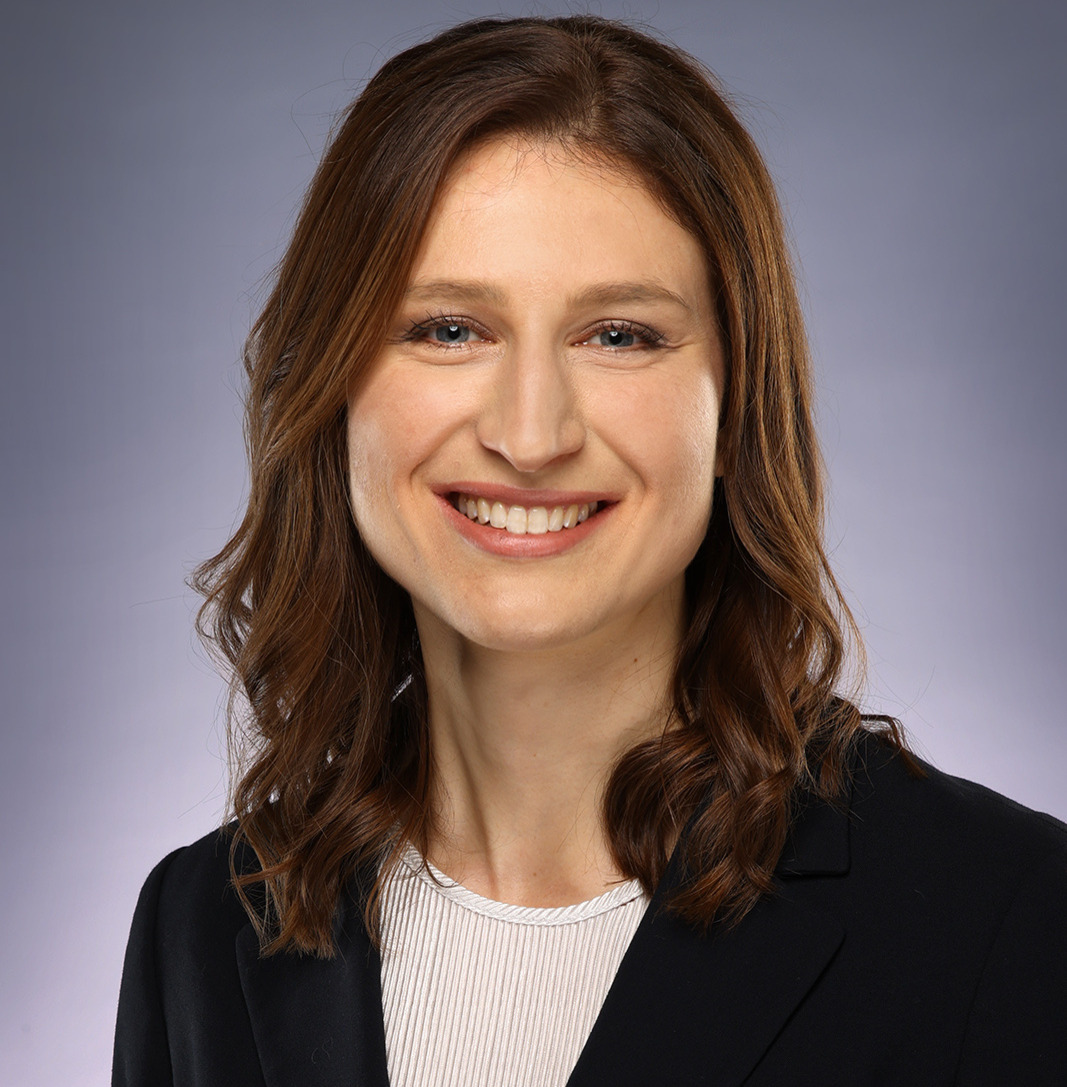
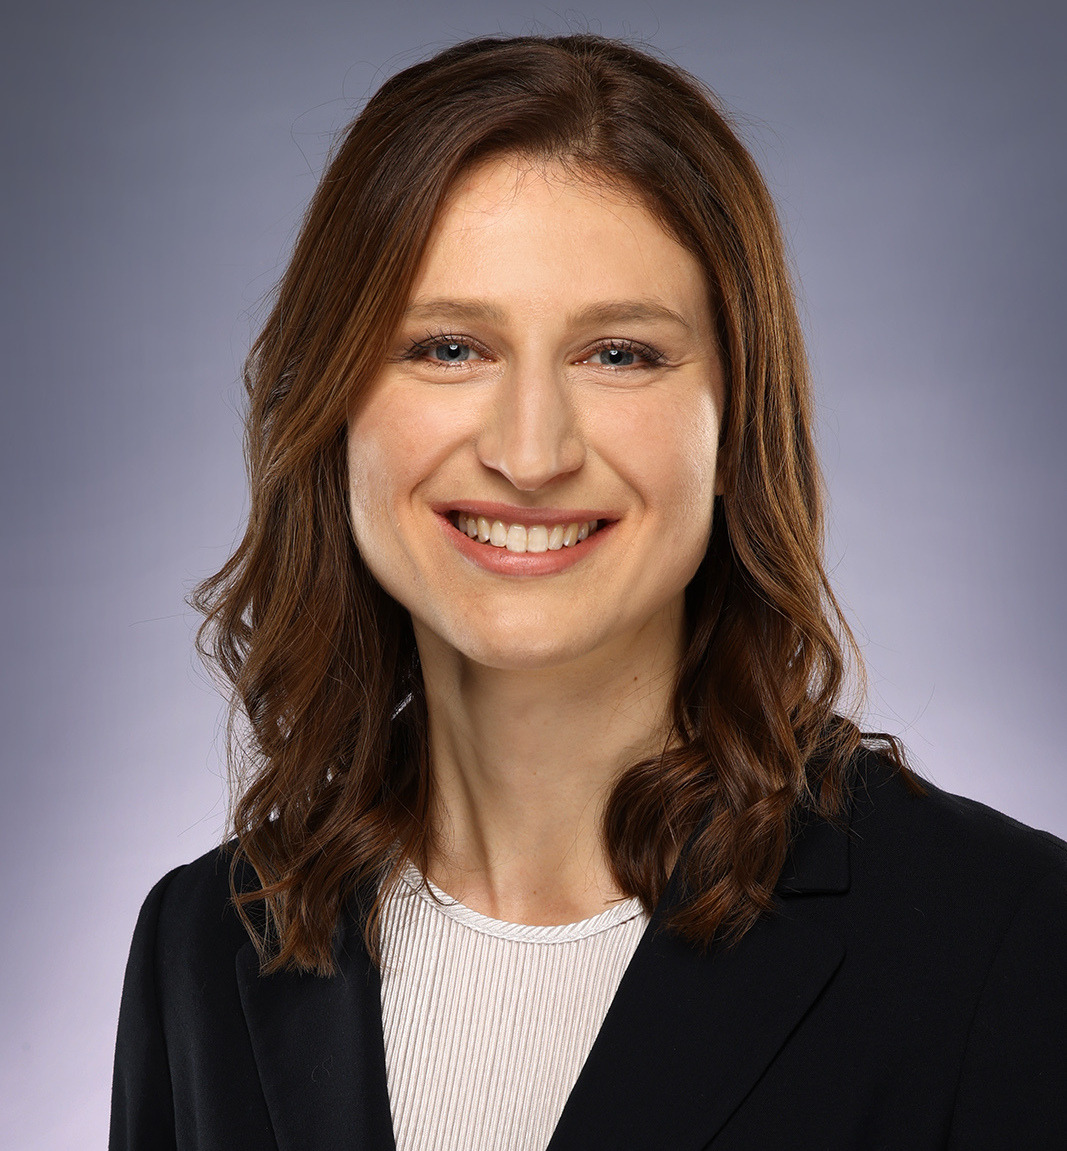
deploy: d9b432d08160f4630b808f24458c6c273cfc3876

diff --git a/team/index.html b/team/index.html
@@ -1,2 +1,2 @@
 <!doctype html><html lang=en><head><meta charset=utf-8><meta charset=utf-8><meta name=viewport content="width=device-width,initial-scale=1,maximum-scale=1,user-scalable=no"><title>Team | Chair of Systems Design</title><link href=https://www.sg.ethz.ch/sass/eth.min.4673ea727950679365cdeb8e558e9b7a8067b97ad6ce7c9ac8ec8fea1f1a139c.css rel=stylesheet type=text/css><link href=https://www.sg.ethz.ch/sass/hamburgers.min.min.cabf4f2db782cf15be3c521a00e22edd7c2a1246c20739da65a5ec0967ff9f58.css rel=stylesheet type=text/css><link href=https://www.sg.ethz.ch/sass/main.min.06277f5dc4591fb276e5d60b111075a34b58c31813e77a69af1830bdf6a24651.css rel=stylesheet type=text/css><link href=https://www.sg.ethz.ch/sass/github-markdown.min.3021e903d07104fe7f787caeceeaf11e99e31b0d4e6a529a45da6e855de42dd1.css rel=stylesheet type=text/css><link rel=apple-touch-icon sizes=180x180 href=https://www.sg.ethz.ch/fav/apple-touch-icon.png><link rel=icon type=image/png sizes=32x32 href=https://www.sg.ethz.ch/fav/favicon-32x32.png><link rel=icon type=image/png sizes=16x16 href=https://www.sg.ethz.ch/fav/favicon-16x16.png><link rel=manifest href=https://www.sg.ethz.ch/fav/site.webmanifest><link rel=mask-icon href=https://www.sg.ethz.ch/fav/safari-pinned-tab.svg color=#a8322c><meta name=msapplication-TileColor content="#da532c"><meta name=theme-color content="#ffffff"><meta property="og:title" content="Team"><meta property="og:description" content><meta property="og:type" content="website"><meta property="og:url" content="https://www.sg.ethz.ch/team/"><meta name=twitter:card content="summary"><meta name=twitter:title content="Team"><meta name=twitter:description content></head><body><div class=site-wrapper><header class="site-header header--with-department-breadcrumb"><div class="header__nav-meta header__desktop-only"><div class=header__container><nav class=header__departments><h2 class=hidden>Departments</h2><ul><li class=item--organization><a href=https://ethz.ch/en.html>ETH Zurich</a></li><li class=item--organization><a href=https://mtec.ethz.ch/>D-MTEC</a></li><li class=item--organization><a href=https://www.sg.ethz.ch/>SG</a></li></ul></nav></div></div><div class="header__logos header__container"><a href=https://ethz.ch/en.html><img src=https://www.sg.ethz.ch/img/ethz_logo_black.svg alt="Logo of ETH Zurich, to homepage"></a><div class=header__headlines><h2 class=header__headline--big><a href=https://www.sg.ethz.ch/>Chair of Systems Design</a></h2></div></div><div class=header__nav-primary><div class="header__navbar header__container"><button class="hamburger hamburger--collapse" type=button>
-<span class=hamburger-box><span class=hamburger-inner></span></span></button><nav class="nav-primary js-nav-primary"><div class="header__nav-level header__nav-level--root js-header__nav-level--root" role=navigation><h1 class=screenreader>Navigation Area</h1><ul id=navList><li><a class=nav-link href=https://www.sg.ethz.ch/>Home</a></li><li><a class=nav-link href=https://www.sg.ethz.ch/publications/>Publications</a></li><li><a class=nav-link href=https://www.sg.ethz.ch/team/>Team</a></li><li><a class=nav-link href=https://www.sg.ethz.ch/projects/>Projects</a></li><li><a class=nav-link href=https://www.sg.ethz.ch/teaching/>Teaching</a></li><li><a class=nav-link href=https://www.sg.ethz.ch/news/>News</a></li><li><a class=nav-link href=https://www.sg.ethz.ch/about/>About Us</a></li></ul></div></nav></div></div></header><section id=content class=site-content><div><main id=main><section class="section section__top section__bg section__bgprimary"><div class=section__bgprimary__image></div><div class=section__inner><div class=section__top__text><nav class=breadcrumb role=navigation aria-label=Breadcrumb><h3 id=breadcrumb-heading class=visually-hidden>You are here</h3><ul><li><a href=https://www.sg.ethz.ch/>Chair of Systems Design</a></li><li><a href=https://www.sg.ethz.ch/team/>Team</a></li></ul></nav><h1>Team</h1></div></div></section><section class="section section__bg section__bgsecondary isteam wave-deactivate"><div class="section__inner cardwrapper cardwrapper__columnTeam team"><figure class=card><a href=https://www.sg.ethz.ch/team/frank_schweitzer/><img src=https://www.sg.ethz.ch/team/frank_schweitzer/profile_pic_hu4ed99a8f4e09978063a7e0750de8e4b2_190425_270x270_fill_q75_box_center.jpg width=270 height=270><h3>Frank<br>Schweitzer</h3><p>Professor</p></a></figure><figure class=card><a href=https://www.sg.ethz.ch/team/nadja_taras/><img src=https://www.sg.ethz.ch/team/nadja_taras/profile_pic_hu6005eae5ae21f565fec1551d3b2cb835_583697_270x270_fill_box_center_2.png width=270 height=270><h3>Nadja<br>Taras</h3><p>Administrative Assistant</p></a></figure><figure class=card><a href=https://www.sg.ethz.ch/team/laurence_brandenberger/><img src=https://www.sg.ethz.ch/team/laurence_brandenberger/profile_pic_hu9d56c632b72609e7dc375e1c7d19f791_2053673_270x270_fill_q75_box_center.jpg width=270 height=270><h3>Laurence<br>Brandenberger</h3><p>Senior Researcher</p></a></figure><figure class=card><a href=https://www.sg.ethz.ch/team/giona_casiraghi/><img src=https://www.sg.ethz.ch/team/giona_casiraghi/profile_pic_hua4f188031f437e141294b8ed632a6775_198810_270x270_fill_q75_box_center.jpg width=270 height=270><h3>Giona<br>Casiraghi</h3><p>Senior Researcher</p></a></figure><figure class=card><a href=https://www.sg.ethz.ch/team/giacomo_vaccario/><img src=https://www.sg.ethz.ch/team/giacomo_vaccario/profile_pic_hu864bf9da20bd7d47f0057a5eb25e3747_135265_270x270_fill_q75_box_center.jpg width=270 height=270><h3>Giacomo<br>Vaccario</h3><p>Senior Researcher</p></a></figure><figure class=card><a href=https://www.sg.ethz.ch/team/ramona_roller/><img src=https://www.sg.ethz.ch/team/ramona_roller/profile_pic_hu8d81d6196a5ade69f0fb36b7c0bbc631_295008_270x270_fill_q75_box_center.jpg width=270 height=270><h3>Ramona<br>Roller</h3><p>Postdoc</p></a></figure><figure class=card><a href=https://www.sg.ethz.ch/team/luca_verginer/><img src=https://www.sg.ethz.ch/team/luca_verginer/profile_pic_hu5c1c18a1da7687374ca456a8ea8d59e9_42973_270x270_fill_q75_box_center.jpg width=270 height=270><h3>Luca<br>Verginer</h3><p>Postdoc</p></a></figure><figure class=card><a href=https://www.sg.ethz.ch/team/christoph_gote/><img src=https://www.sg.ethz.ch/team/christoph_gote/profile_pic_hud797b16b21df76f967ca44c8a24bc0d9_1798907_270x270_fill_q75_box_center.JPG width=270 height=270><h3>Christoph<br>Gote</h3><p>Postdoc</p></a></figure><figure class=card><a href=https://www.sg.ethz.ch/team/christian_zingg/><img src=https://www.sg.ethz.ch/team/christian_zingg/profile_pic_hud52d6b7071b8ed71493b1a29acc0493d_20518_270x270_fill_q75_box_center.jpg width=270 height=270><h3>Christian<br>Zingg</h3><p>Postdoc</p></a></figure><figure class=card><a href=https://www.sg.ethz.ch/team/ambra_amico/><img src=https://www.sg.ethz.ch/team/ambra_amico/profile_pic_hu5202cf31f78498c772f420909364207e_2374968_270x270_fill_q75_box_center.jpg width=270 height=270><h3>Ambra<br>Amico</h3><p>PhD Student</p></a></figure><figure class=card><a href=https://www.sg.ethz.ch/team/sophia-schlosser/><img src=https://www.sg.ethz.ch/team/sophia-schlosser/profile_pic_hue88fdd4a9c5f25795e3fb91869f81059_152040_270x270_fill_q75_box_center.jpg width=270 height=270><h3>Sophia Johanna<br>Schlosser</h3><p>PhD Student</p></a></figure><figure class=card><a href=https://www.sg.ethz.ch/team/giuseppe_russo/><img src=https://www.sg.ethz.ch/team/giuseppe_russo/profile_pic_hub1d02aeb85c2cb9771aa16dd32e5676d_86219_270x270_fill_q75_box_center.jpg width=270 height=270><h3>Giuseppe<br>Russo</h3><p>PhD Student</p></a></figure><figure class=card><a href=https://www.sg.ethz.ch/team/georges_andres/><img src=https://www.sg.ethz.ch/team/georges_andres/profile_pic_huafe2ce1aa26ecc3d9daff9b3fc91a61d_422124_270x270_fill_q75_box_center.jpg width=270 height=270><h3>Georges<br>Andres</h3><p>PhD Student</p></a></figure></div></section></main></div></section><footer id=footer class="site-footer section__bg section__bgdark wave-deactivate"><div class=footer__container><nav aria-labelledby=footer-resources-heading class="footer__row footer__resources"><h3 id=footer-resources-heading class=visually-hidden>Resources</h3><ul><li><a href=https://www.sg.ethz.ch/admin/disclaimer/>Disclaimer</a></li><li><a href=https://www.sg.ethz.ch/admin/imprint/>Imprint</a></li><li><a href=https://www.sg.ethz.ch/admin/contactus/>Contact Us</a></li></ul></nav><div class=footer__copyright>© 2023 Chair of Systems Design | ETH Zürich</a></div></div></footer><script src=https://www.sg.ethz.ch/js/timeago.min.js></script><script src=https://www.sg.ethz.ch/js/jquery-3.5.1.min.js></script><script src=https://www.sg.ethz.ch/js/executes.js></script></div></body></html>
+<span class=hamburger-box><span class=hamburger-inner></span></span></button><nav class="nav-primary js-nav-primary"><div class="header__nav-level header__nav-level--root js-header__nav-level--root" role=navigation><h1 class=screenreader>Navigation Area</h1><ul id=navList><li><a class=nav-link href=https://www.sg.ethz.ch/>Home</a></li><li><a class=nav-link href=https://www.sg.ethz.ch/publications/>Publications</a></li><li><a class=nav-link href=https://www.sg.ethz.ch/team/>Team</a></li><li><a class=nav-link href=https://www.sg.ethz.ch/projects/>Projects</a></li><li><a class=nav-link href=https://www.sg.ethz.ch/teaching/>Teaching</a></li><li><a class=nav-link href=https://www.sg.ethz.ch/news/>News</a></li><li><a class=nav-link href=https://www.sg.ethz.ch/about/>About Us</a></li></ul></div></nav></div></div></header><section id=content class=site-content><div><main id=main><section class="section section__top section__bg section__bgprimary"><div class=section__bgprimary__image></div><div class=section__inner><div class=section__top__text><nav class=breadcrumb role=navigation aria-label=Breadcrumb><h3 id=breadcrumb-heading class=visually-hidden>You are here</h3><ul><li><a href=https://www.sg.ethz.ch/>Chair of Systems Design</a></li><li><a href=https://www.sg.ethz.ch/team/>Team</a></li></ul></nav><h1>Team</h1></div></div></section><section class="section section__bg section__bgsecondary isteam wave-deactivate"><div class="section__inner cardwrapper cardwrapper__columnTeam team"><figure class=card><a href=https://www.sg.ethz.ch/team/frank_schweitzer/><img src=https://www.sg.ethz.ch/team/frank_schweitzer/profile_pic_hu4ed99a8f4e09978063a7e0750de8e4b2_190425_270x270_fill_q75_box_center.jpg width=270 height=270><h3>Frank<br>Schweitzer</h3><p>Professor</p></a></figure><figure class=card><a href=https://www.sg.ethz.ch/team/nadja_taras/><img src=https://www.sg.ethz.ch/team/nadja_taras/profile_pic_hu6005eae5ae21f565fec1551d3b2cb835_583697_270x270_fill_box_center_2.png width=270 height=270><h3>Nadja<br>Taras</h3><p>Administrative Assistant</p></a></figure><figure class=card><a href=https://www.sg.ethz.ch/team/laurence_brandenberger/><img src=https://www.sg.ethz.ch/team/laurence_brandenberger/profile_pic_hu9d56c632b72609e7dc375e1c7d19f791_2053673_270x270_fill_q75_box_center.jpg width=270 height=270><h3>Laurence<br>Brandenberger</h3><p>Senior Researcher</p></a></figure><figure class=card><a href=https://www.sg.ethz.ch/team/giona_casiraghi/><img src=https://www.sg.ethz.ch/team/giona_casiraghi/profile_pic_hua4f188031f437e141294b8ed632a6775_198810_270x270_fill_q75_box_center.jpg width=270 height=270><h3>Giona<br>Casiraghi</h3><p>Senior Researcher</p></a></figure><figure class=card><a href=https://www.sg.ethz.ch/team/giacomo_vaccario/><img src=https://www.sg.ethz.ch/team/giacomo_vaccario/profile_pic_hu864bf9da20bd7d47f0057a5eb25e3747_135265_270x270_fill_q75_box_center.jpg width=270 height=270><h3>Giacomo<br>Vaccario</h3><p>Senior Researcher</p></a></figure><figure class=card><a href=https://www.sg.ethz.ch/team/ramona_roller/><img src=https://www.sg.ethz.ch/team/ramona_roller/profile_pic_hu8d81d6196a5ade69f0fb36b7c0bbc631_358058_270x270_fill_q75_box_center.jpg width=270 height=270><h3>Ramona<br>Roller</h3><p>Postdoc</p></a></figure><figure class=card><a href=https://www.sg.ethz.ch/team/luca_verginer/><img src=https://www.sg.ethz.ch/team/luca_verginer/profile_pic_hu5c1c18a1da7687374ca456a8ea8d59e9_42973_270x270_fill_q75_box_center.jpg width=270 height=270><h3>Luca<br>Verginer</h3><p>Postdoc</p></a></figure><figure class=card><a href=https://www.sg.ethz.ch/team/christoph_gote/><img src=https://www.sg.ethz.ch/team/christoph_gote/profile_pic_hud797b16b21df76f967ca44c8a24bc0d9_1798907_270x270_fill_q75_box_center.JPG width=270 height=270><h3>Christoph<br>Gote</h3><p>Postdoc</p></a></figure><figure class=card><a href=https://www.sg.ethz.ch/team/christian_zingg/><img src=https://www.sg.ethz.ch/team/christian_zingg/profile_pic_hud52d6b7071b8ed71493b1a29acc0493d_20518_270x270_fill_q75_box_center.jpg width=270 height=270><h3>Christian<br>Zingg</h3><p>Postdoc</p></a></figure><figure class=card><a href=https://www.sg.ethz.ch/team/ambra_amico/><img src=https://www.sg.ethz.ch/team/ambra_amico/profile_pic_hu5202cf31f78498c772f420909364207e_2374968_270x270_fill_q75_box_center.jpg width=270 height=270><h3>Ambra<br>Amico</h3><p>PhD Student</p></a></figure><figure class=card><a href=https://www.sg.ethz.ch/team/sophia-schlosser/><img src=https://www.sg.ethz.ch/team/sophia-schlosser/profile_pic_hue88fdd4a9c5f25795e3fb91869f81059_152040_270x270_fill_q75_box_center.jpg width=270 height=270><h3>Sophia Johanna<br>Schlosser</h3><p>PhD Student</p></a></figure><figure class=card><a href=https://www.sg.ethz.ch/team/giuseppe_russo/><img src=https://www.sg.ethz.ch/team/giuseppe_russo/profile_pic_hub1d02aeb85c2cb9771aa16dd32e5676d_86219_270x270_fill_q75_box_center.jpg width=270 height=270><h3>Giuseppe<br>Russo</h3><p>PhD Student</p></a></figure><figure class=card><a href=https://www.sg.ethz.ch/team/georges_andres/><img src=https://www.sg.ethz.ch/team/georges_andres/profile_pic_huafe2ce1aa26ecc3d9daff9b3fc91a61d_422124_270x270_fill_q75_box_center.jpg width=270 height=270><h3>Georges<br>Andres</h3><p>PhD Student</p></a></figure></div></section></main></div></section><footer id=footer class="site-footer section__bg section__bgdark wave-deactivate"><div class=footer__container><nav aria-labelledby=footer-resources-heading class="footer__row footer__resources"><h3 id=footer-resources-heading class=visually-hidden>Resources</h3><ul><li><a href=https://www.sg.ethz.ch/admin/disclaimer/>Disclaimer</a></li><li><a href=https://www.sg.ethz.ch/admin/imprint/>Imprint</a></li><li><a href=https://www.sg.ethz.ch/admin/contactus/>Contact Us</a></li></ul></nav><div class=footer__copyright>© 2023 Chair of Systems Design | ETH Zürich</a></div></div></footer><script src=https://www.sg.ethz.ch/js/timeago.min.js></script><script src=https://www.sg.ethz.ch/js/jquery-3.5.1.min.js></script><script src=https://www.sg.ethz.ch/js/executes.js></script></div></body></html>

diff --git a/team/ramona_roller/index.html b/team/ramona_roller/index.html
@@ -1,5 +1,5 @@
 <!doctype html><html lang=en><head><meta charset=utf-8><meta charset=utf-8><meta name=viewport content="width=device-width,initial-scale=1,maximum-scale=1,user-scalable=no"><title>Ramona Roller | Chair of Systems Design</title><link href=https://www.sg.ethz.ch/sass/eth.min.4673ea727950679365cdeb8e558e9b7a8067b97ad6ce7c9ac8ec8fea1f1a139c.css rel=stylesheet type=text/css><link href=https://www.sg.ethz.ch/sass/hamburgers.min.min.cabf4f2db782cf15be3c521a00e22edd7c2a1246c20739da65a5ec0967ff9f58.css rel=stylesheet type=text/css><link href=https://www.sg.ethz.ch/sass/main.min.06277f5dc4591fb276e5d60b111075a34b58c31813e77a69af1830bdf6a24651.css rel=stylesheet type=text/css><link href=https://www.sg.ethz.ch/sass/github-markdown.min.3021e903d07104fe7f787caeceeaf11e99e31b0d4e6a529a45da6e855de42dd1.css rel=stylesheet type=text/css><link rel=apple-touch-icon sizes=180x180 href=https://www.sg.ethz.ch/fav/apple-touch-icon.png><link rel=icon type=image/png sizes=32x32 href=https://www.sg.ethz.ch/fav/favicon-32x32.png><link rel=icon type=image/png sizes=16x16 href=https://www.sg.ethz.ch/fav/favicon-16x16.png><link rel=manifest href=https://www.sg.ethz.ch/fav/site.webmanifest><link rel=mask-icon href=https://www.sg.ethz.ch/fav/safari-pinned-tab.svg color=#a8322c><meta name=msapplication-TileColor content="#da532c"><meta name=theme-color content="#ffffff"><meta property="og:title" content="Ramona Roller"><meta property="og:description" content="I am a PostDoc at the Chair of Systems Design at ETH Zurich, where I study societal transitions and communication networks. I am particular interested in how European society in the 16th century changed as a result of the Reformation, a social movement that overthrew the Catholic Church. For example, I analyse how scholars specialised in their communication roles and why territories adopted Protestantism. A central aim of my research is to understand the driving factors of transitions, accounting for interdependencies and heterogeneities in complex social systems."><meta property="og:type" content="article"><meta property="og:url" content="https://www.sg.ethz.ch/team/ramona_roller/"><meta property="article:section" content="team"><meta name=twitter:card content="summary"><meta name=twitter:title content="Ramona Roller"><meta name=twitter:description content="I am a PostDoc at the Chair of Systems Design at ETH Zurich, where I study societal transitions and communication networks. I am particular interested in how European society in the 16th century changed as a result of the Reformation, a social movement that overthrew the Catholic Church. For example, I analyse how scholars specialised in their communication roles and why territories adopted Protestantism. A central aim of my research is to understand the driving factors of transitions, accounting for interdependencies and heterogeneities in complex social systems."></head><body><div class=site-wrapper><header class="site-header header--with-department-breadcrumb"><div class="header__nav-meta header__desktop-only"><div class=header__container><nav class=header__departments><h2 class=hidden>Departments</h2><ul><li class=item--organization><a href=https://ethz.ch/en.html>ETH Zurich</a></li><li class=item--organization><a href=https://mtec.ethz.ch/>D-MTEC</a></li><li class=item--organization><a href=https://www.sg.ethz.ch/>SG</a></li></ul></nav></div></div><div class="header__logos header__container"><a href=https://ethz.ch/en.html><img src=https://www.sg.ethz.ch/img/ethz_logo_black.svg alt="Logo of ETH Zurich, to homepage"></a><div class=header__headlines><h2 class=header__headline--big><a href=https://www.sg.ethz.ch/>Chair of Systems Design</a></h2></div></div><div class=header__nav-primary><div class="header__navbar header__container"><button class="hamburger hamburger--collapse" type=button>
-<span class=hamburger-box><span class=hamburger-inner></span></span></button><nav class="nav-primary js-nav-primary"><div class="header__nav-level header__nav-level--root js-header__nav-level--root" role=navigation><h1 class=screenreader>Navigation Area</h1><ul id=navList><li><a class=nav-link href=https://www.sg.ethz.ch/>Home</a></li><li><a class=nav-link href=https://www.sg.ethz.ch/publications/>Publications</a></li><li><a class=nav-link href=https://www.sg.ethz.ch/team/>Team</a></li><li><a class=nav-link href=https://www.sg.ethz.ch/projects/>Projects</a></li><li><a class=nav-link href=https://www.sg.ethz.ch/teaching/>Teaching</a></li><li><a class=nav-link href=https://www.sg.ethz.ch/news/>News</a></li><li><a class=nav-link href=https://www.sg.ethz.ch/about/>About Us</a></li></ul></div></nav></div></div></header><section id=content class=site-content><div><main id=main><section class="section section__top section__bg section__bgprimary"><div class=section__bgprimary__image style=background:url(/images/tile4.png)></div><div class="section__inner section__content"><div class=section__top__text><h1 style=hyphens:auto>Dr. Ramona Roller</h1><h2>Postdoc</h2></div></div></section><section class="section section__bg section__bglight wave-deactivate"><div class="section__inner section__content"><div class="text markdown-body"><div class=imgcontainer><img src=https://www.sg.ethz.ch/team/ramona_roller/profile_pic_hu8d81d6196a5ade69f0fb36b7c0bbc631_295008_300x300_fill_q75_box_center.jpg><div class=social-links><ul aria-hidden=true><li><a href=mailto:rroller@ethz.ch><i class="fas fa-envelope"></i></a></li><li><a href=https://twitter.com/ramona_roller target=_blank rel=noopener><i class="fab fa-twitter"></i></a></li><li><a href=https://github.com/RamonaRoller target=_blank rel=noopener><i class="fab fa-github"></i></a></li><li><a href=https://orcid.org/0000-0003-0146-4264 target=_blank rel=noopener><i class="fab fa-orcid"></i></a></li></ul></div></div><p>I am a PostDoc at the Chair of Systems Design at ETH Zurich, where I study societal transitions and communication networks.
+<span class=hamburger-box><span class=hamburger-inner></span></span></button><nav class="nav-primary js-nav-primary"><div class="header__nav-level header__nav-level--root js-header__nav-level--root" role=navigation><h1 class=screenreader>Navigation Area</h1><ul id=navList><li><a class=nav-link href=https://www.sg.ethz.ch/>Home</a></li><li><a class=nav-link href=https://www.sg.ethz.ch/publications/>Publications</a></li><li><a class=nav-link href=https://www.sg.ethz.ch/team/>Team</a></li><li><a class=nav-link href=https://www.sg.ethz.ch/projects/>Projects</a></li><li><a class=nav-link href=https://www.sg.ethz.ch/teaching/>Teaching</a></li><li><a class=nav-link href=https://www.sg.ethz.ch/news/>News</a></li><li><a class=nav-link href=https://www.sg.ethz.ch/about/>About Us</a></li></ul></div></nav></div></div></header><section id=content class=site-content><div><main id=main><section class="section section__top section__bg section__bgprimary"><div class=section__bgprimary__image style=background:url(/images/tile4.png)></div><div class="section__inner section__content"><div class=section__top__text><h1 style=hyphens:auto>Dr. Ramona Roller</h1><h2>Postdoc</h2></div></div></section><section class="section section__bg section__bglight wave-deactivate"><div class="section__inner section__content"><div class="text markdown-body"><div class=imgcontainer><img src=https://www.sg.ethz.ch/team/ramona_roller/profile_pic_hu8d81d6196a5ade69f0fb36b7c0bbc631_358058_300x300_fill_q75_box_center.jpg><div class=social-links><ul aria-hidden=true><li><a href=mailto:rroller@ethz.ch><i class="fas fa-envelope"></i></a></li><li><a href=https://twitter.com/ramona_roller target=_blank rel=noopener><i class="fab fa-twitter"></i></a></li><li><a href=https://github.com/RamonaRoller target=_blank rel=noopener><i class="fab fa-github"></i></a></li><li><a href=https://orcid.org/0000-0003-0146-4264 target=_blank rel=noopener><i class="fab fa-orcid"></i></a></li></ul></div></div><p>I am a PostDoc at the Chair of Systems Design at ETH Zurich, where I study societal transitions and communication networks.
 I am particular interested in how European society in the 16th century changed as a result of the Reformation, a social movement that overthrew the Catholic Church.
 For example, I analyse how scholars specialised in their communication roles and why territories adopted Protestantism.
 A central aim of my research is to understand the driving factors of transitions, accounting for interdependencies and heterogeneities in complex social systems.
